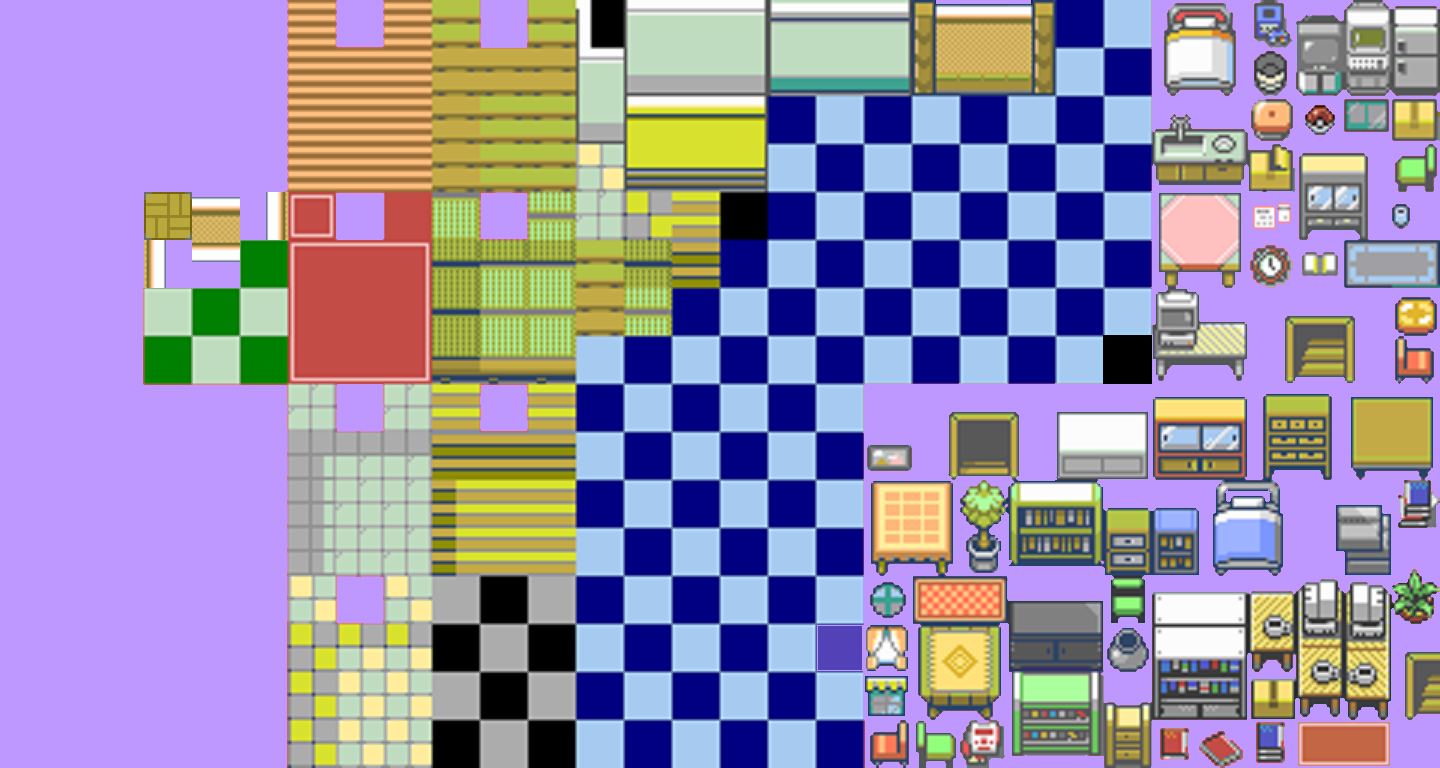
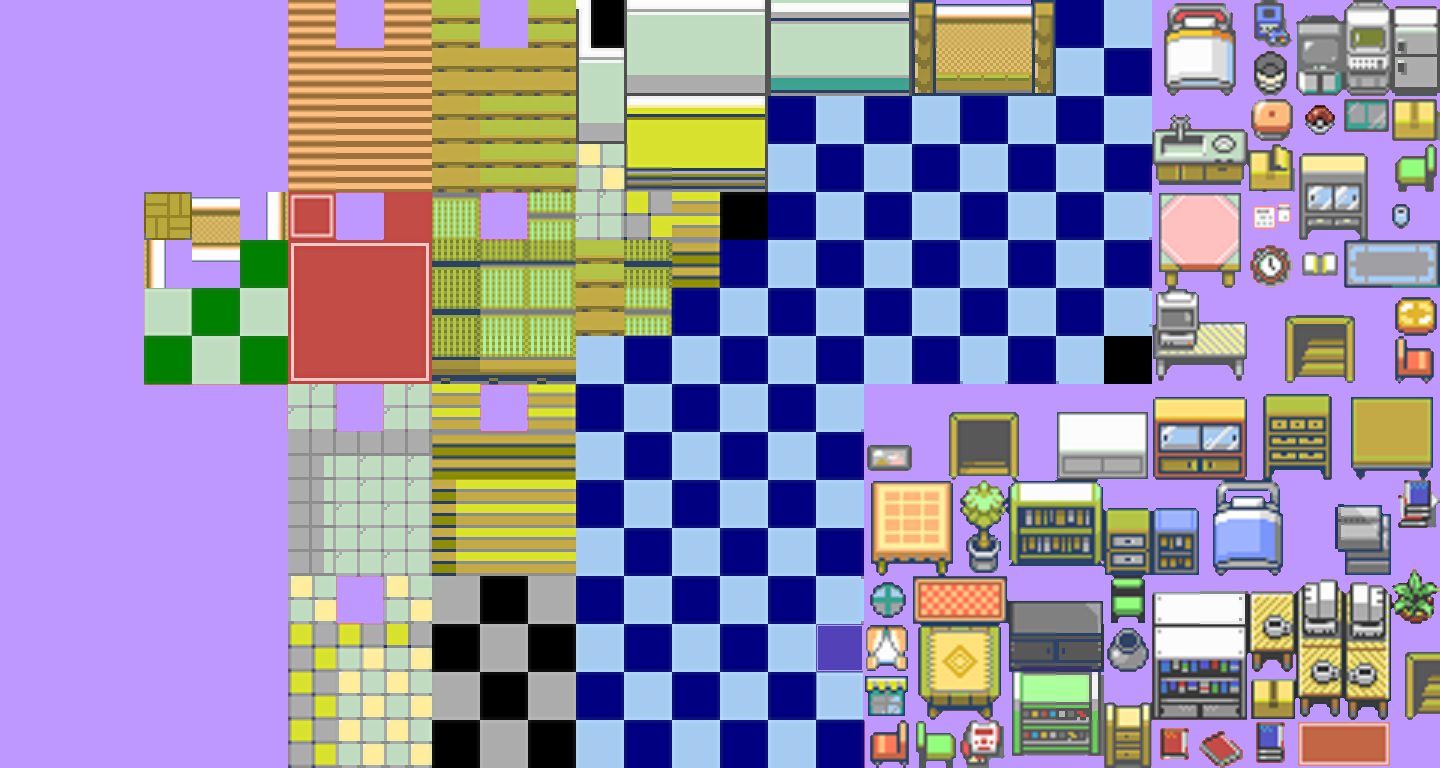
feat: walk animation from the steps, surfing sprite, crisp tiles
- The walk animation of the characters moving block by block follows their steps (a foot forward each half step, in
  the direction of the step), not the physics velocity.
- The sheet of the hero (0.png) was a 64 px copy with its frames moved left and right in their cells (the hero shook
  while walking to the left and the right) and with grid lines : the 72 px original (0.ori.png, aligned, as the other
  characters) replaces it. The frames of pnj7 are aligned.
- Surfing : the hero sits on a water Pokemon, bobbing (Sprites/Charsets/1000.png, made by tools/assets/surf_sprite.py ;
  Character.setSprite).
- The chipsets were 16 px tiles enlarged x3 with a smoothing filter (blurry) : these tiles are enlarged without
  smoothing again, the tiles drawn at 48 px are kept (tools/assets/crisp_chipsets.py).

diff --git a/tools/assets/surf_sprite.py b/tools/assets/surf_sprite.py
@@ -1,0 +1,103 @@
+#!/usr/bin/env python3
+# Generates the sprite sheet of the hero surfing (Sprites/Charsets/<id>.png) : the upper body of the hero (its sheet)
+# sitting on a water Pokemon, on the 4 directions, 3 frames bobbing on the water. Same layout as the character
+# sheets : 6 x 8 frames of 72 px, 3 animated, rows 0 up, 1 right, 2 down, 3 left, 4 to 7 the diagonals.
+# Usage : tools/assets/surf_sprite.py Sprites/Charsets/0.png Sprites/Charsets/1000.png (needs Pillow)
+import sys
+from PIL import Image, ImageDraw
+
+FRAME = 72
+PIXEL = 2            # the mount is drawn with 2 px pixels (the size of the pixels of the hero)
+LOW = FRAME // PIXEL
+KEY = (190, 151, 255, 255)
+OUTLINE = (34, 52, 104, 255)
+BODY = (76, 136, 214, 255)
+LIGHT = (150, 200, 245, 255)
+SHELL = (206, 206, 220, 255)
+SHELL_DARK = (140, 140, 162, 255)
+FOAM = (236, 246, 255, 255)
+EYE = (20, 20, 40, 255)
+# The waist of the hero in its frame : the part above is shown, moved down by SEAT to sit on the mount
+WAIST = 47
+SEAT = 8
+# The center of the mount (in 2 px pixels)
+CX, CY = 18, 27
+
+
+def ellipse(draw, cx, cy, rx, ry, fill, outline=None):
+    draw.ellipse((cx - rx, cy - ry, cx + rx, cy + ry), fill=fill, outline=outline)
+
+
+def mount(direction, bob, layer):
+    # layer 0 : under the hero, layer 1 : over the hero (the head in front of it)
+    image = Image.new('RGBA', (LOW, LOW), (0, 0, 0, 0))
+    draw = ImageDraw.Draw(image)
+    y = CY + bob
+    horizontal = direction in (1, 3)
+    rx, ry = (13, 6) if horizontal else (11, 7)
+    if layer == 0:
+        # Foam around the mount, moving with the bob
+        ellipse(draw, CX, y + 4, rx + 3 - bob, 3, FOAM)
+        ellipse(draw, CX, y + 4, rx + 1 - bob, 2, (0, 0, 0, 0))
+        ellipse(draw, CX, y, rx, ry, BODY, OUTLINE)
+        ellipse(draw, CX, y + 2, rx - 3, ry - 3, LIGHT)
+        # The shell on its back, around the hero
+        ellipse(draw, CX, y - 1, rx - 4, ry - 2, SHELL, SHELL_DARK)
+        for kx in (-4, 0, 4):
+            draw.point((CX + kx, y - 2), fill=SHELL_DARK)
+        if direction == 0:
+            # Its head is far, behind the hero : the neck rises above
+            draw.rectangle((CX - 1, y - 15, CX + 1, y - 6), fill=BODY, outline=OUTLINE)
+            ellipse(draw, CX, y - 16, 3, 2, BODY, OUTLINE)
+        if horizontal:
+            # Its tail
+            side = 1 if direction == 1 else -1
+            tx = CX - side * (rx + 1)
+            draw.polygon([(tx, y), (tx - side * 3, y - 3), (tx - side * 3, y + 2)], fill=BODY, outline=OUTLINE)
+    else:
+        if direction == 2:
+            # Its head, in front of the hero
+            ellipse(draw, CX, y + 5, 4, 3, BODY, OUTLINE)
+            draw.point((CX - 2, y + 4), fill=EYE)
+            draw.point((CX + 2, y + 4), fill=EYE)
+        if horizontal:
+            side = 1 if direction == 1 else -1
+            hx = CX + side * (rx + 1)
+            draw.line((CX + side * (rx - 4), y - 1, hx, y - 8), fill=OUTLINE, width=3)
+            draw.line((CX + side * (rx - 4), y - 1, hx, y - 8), fill=BODY, width=1)
+            ellipse(draw, hx + side, y - 10, 3, 2, BODY, OUTLINE)
+            draw.point((hx + side * 2, y - 11), fill=EYE)
+    return image.resize((FRAME, FRAME), Image.NEAREST)
+
+
+def hero_upper(hero, direction, bob):
+    # The standing frame of the hero (column 1), cut at the waist, sitting on the mount
+    frame = hero.crop((FRAME, direction * FRAME, 2 * FRAME, (direction + 1) * FRAME)).convert('RGBA')
+    pixels = frame.load()
+    for y in range(FRAME):
+        for x in range(FRAME):
+            if pixels[x, y][:3] == KEY[:3] or y >= WAIST:
+                pixels[x, y] = (0, 0, 0, 0)
+    upper = Image.new('RGBA', (FRAME, FRAME), (0, 0, 0, 0))
+    upper.paste(frame, (0, SEAT + bob * PIXEL), frame)
+    return upper
+
+
+def main(hero_path, output):
+    hero = Image.open(hero_path).convert('RGBA')
+    sheet = Image.new('RGBA', (FRAME * 6, FRAME * 8), KEY)
+    # Rows of the sheet : the direction drawn on each (the diagonals : the nearest direction)
+    rows = [0, 1, 2, 3, 0, 1, 2, 3]
+    for row, direction in enumerate(rows):
+        for column, bob in enumerate((0, 1, 0)):
+            frame = Image.new('RGBA', (FRAME, FRAME), (0, 0, 0, 0))
+            for part in (mount(direction, bob, 0), hero_upper(hero, direction, bob), mount(direction, bob, 1)):
+                frame.alpha_composite(part)
+            cell = Image.new('RGBA', (FRAME, FRAME), KEY)
+            cell.alpha_composite(frame)
+            sheet.paste(cell, (column * FRAME, row * FRAME))
+    sheet.convert('RGB').save(output)
+    print(f'{output} : the hero surfing')
+
+
+main(sys.argv[1], sys.argv[2])

diff --git a/tools/assets/crisp_chipsets.py b/tools/assets/crisp_chipsets.py
@@ -1,0 +1,58 @@
+#!/usr/bin/env python3
+# Makes the chipsets crisp again. Most of their tiles are 16 px pixel art enlarged x3 with a smoothing filter (blurry
+# edges). For each 48 px tile : one pixel per 3x3 cell is kept (the transparent color, 190 151 255, stays exact), and
+# when a smooth enlargement of that 16 px tile gives the original tile back (it was made that way), the tile is
+# replaced by its x3 enlargement without smoothing. The other tiles (drawn at 48 px) are not changed.
+# Usage : tools/assets/crisp_chipsets.py <chipset.png>... (needs Pillow ; the files are replaced)
+import sys
+from PIL import Image
+
+KEY = (190, 151, 255)
+TILE = 48
+# Mean difference (sum of the 3 channels) under which a tile is an enlarged 16 px tile
+THRESHOLD = 8
+
+
+def dist(a, b):
+    return sum(abs(a[i] - b[i]) for i in range(3))
+
+
+def small_pixel(pixels, x, y, width, height):
+    cell = [pixels[min(width - 1, 3 * x + i), min(height - 1, 3 * y + j)] for j in range(3) for i in range(3)]
+    center = cell[4]
+    keys = sum(1 for p in cell if dist(p, KEY) < 30)
+    if keys >= 5 or dist(center, KEY) < 30:
+        return KEY
+    if keys > 0 and dist(center, KEY) < 200:
+        # A blend with the transparent color : the most opaque pixel of the cell
+        return max(cell, key=lambda p: dist(p, KEY))
+    return center
+
+
+def crisp(path):
+    image = Image.open(path).convert('RGB')
+    pixels = image.load()
+    width, height = image.size
+    small = Image.new('RGB', (width // 3, height // 3))
+    small_pixels = small.load()
+    for y in range(height // 3):
+        for x in range(width // 3):
+            small_pixels[x, y] = small_pixel(pixels, x, y, width, height)
+    sharp = small.resize((width, height), Image.NEAREST)
+    smooth = small.resize((width, height), Image.BICUBIC)
+    smooth_pixels = smooth.load()
+    result = image.copy()
+    replaced = 0
+    for ty in range(height // TILE):
+        for tx in range(width // TILE):
+            box = (tx * TILE, ty * TILE, tx * TILE + TILE, ty * TILE + TILE)
+            difference = sum(dist(pixels[x, y], smooth_pixels[x, y]) for y in range(box[1], box[3], 2) for x in range(box[0], box[2], 2))
+            if difference / (TILE * TILE / 4) < THRESHOLD:
+                result.paste(sharp.crop(box), box)
+                replaced += 1
+    result.save(path)
+    print(f'{path} : {replaced} / {(width // TILE) * (height // TILE)} tiles made crisp')
+
+
+for argument in sys.argv[1:]:
+    crisp(argument)

diff --git a/src/src/Game/Gameplay/Control/GridMovementSystem.cpp b/src/src/Game/Gameplay/Control/GridMovementSystem.cpp
@@ -3,6 +3,7 @@
 #include <cmath>
 #include <algorithm>
 #include "Core/Inputs/InputContextManager.h"
+#include "Core/Utils/TimeUtils.h"
 #include "Core/ECS/Basics/Physic/CollidableComponent.h"
 #include "Core/ECS/Basics/Physic/WorldCollisionComponent.h"
 #include "Core/Data/Events/CollisionEvent.h"
@@ -152,11 +153,19 @@ void GridMovementSystem::refresh(unsigned int ellapsedTime) {
 			input->movePower = 0.F;
 		}
 
-		// Moved by a script
+		// Moved by a script : animated by its physics velocity
+		auto& animation = m_componentAccessor.get<ska::AnimationComponent>(entity);
 		if (m_componentPossibleAccessor.get<ska::IADefinedMovementComponent>(entity) != nullptr) {
 			grid.stepping = false;
+			animation.drivenUntil = 0;
 			continue;
 		}
+		// Animated by its steps : a foot forward each half step, in the direction of the step (the physics velocity is
+		// not exact : a walk to the right could be drawn as a diagonal)
+		animation.drivenUntil = ska::TimeUtils::getTicks() + 200;
+		animation.walking = grid.stepping;
+		animation.walkDelay = std::max(60u, grid.duration / 2);
+		animation.state = grid.stepping ? grid.stepDirection : grid.facing;
 
 		const auto locked = mode != nullptr && mode->mode == "locked";
 		const auto running = (mode != nullptr && mode->mode == "run") || m_toggles[ska::Run];

diff --git a/src/src/Game/Script/GameScriptModule.cpp b/src/src/Game/Script/GameScriptModule.cpp
@@ -246,6 +246,19 @@ CharacterScriptModule::CharacterScriptModule(ska::scripting::ScriptVM& vm, Custo
 		return ska::NodeValue{};
 	});
 
+	m_builder.bindField("setSprite", [&entityManager, &handles](std::vector<ska::NodeValue> params) {
+		const auto entity = Entity(handles, entityManager, params[0]);
+		auto& graphic = Require<ska::GraphicComponent>(entityManager, entity, "change its sprite");
+		if (graphic.animatedSprites.empty()) {
+			graphic.animatedSprites.resize(1);
+		}
+		// A sheet of the same layout as the characters (6 x 8 frames, 3 animated)
+		graphic.animatedSprites[0].load(ska::SpritePath::getInstance().getPath(SPRITEBANK_CHARSET, Int(params[1])), 6, 8, 3);
+		graphic.animatedSprites[0].setDelay(100);
+		Require<ska::AnimationComponent>(entityManager, entity, "be animated").animatedWhenStill = params[2].nodeval<bool>();
+		return ska::NodeValue{};
+	});
+
 	m_builder.bindField("direction", [&entityManager, &handles](std::vector<ska::NodeValue> params) {
 		const auto entity = Entity(handles, entityManager, params[0]);
 		return ska::NodeValue{ static_cast<long>(Require<ska::AnimationComponent>(entityManager, entity, "have a direction").state) };

diff --git a/SCRIPTING.md b/SCRIPTING.md
@@ -21,7 +21,7 @@ The scripts are checked during the build (`smash_and_dash_scripts_check` in `src
 | --- | --- | --- |
 | Engine (ska) | `Engine = import "bind:ska.engine"` | wait, log, random, origin (the entity that triggered the script), entity (by name), disableComponent / enableComponent, variable / setVariable (saved game variables), script |
 | Dialogs | `GameDialog = import "bind:game.dialog"` | message, choice (yes / no), cinematic |
-| Characters | `Character = import "bind:game.character"` | setMovement / movement (`walk`, `run`, `locked` for the player), move, jump, direction / setDirection, setLayer, playAnimation, place, remove, wander, patrol, addCharacter, follow (walks after another character, until `follow(entity, -1)`) |
+| Characters | `Character = import "bind:game.character"` | setMovement / movement (`walk`, `run`, `locked` for the player), move, jump, direction / setDirection, setLayer, playAnimation, setSprite (another sheet, ex : surfing), place, remove, wander, patrol, addCharacter, follow (walks after another character, until `follow(entity, -1)`) |
 | Maps | `Map = import "bind:game.map"` | teleport, blockX / blockY, blockHasProperty, blockFree (no wall, no character), shake (camera), crumbling |
 | Team | `Party = import "bind:game.party"` | addPokemon, size, hp, level, heal, pokemonOut |
 | Interface | `Interface = import "bind:game.interface"` | hideInterface (buttons and windows, not the messages), shop |
